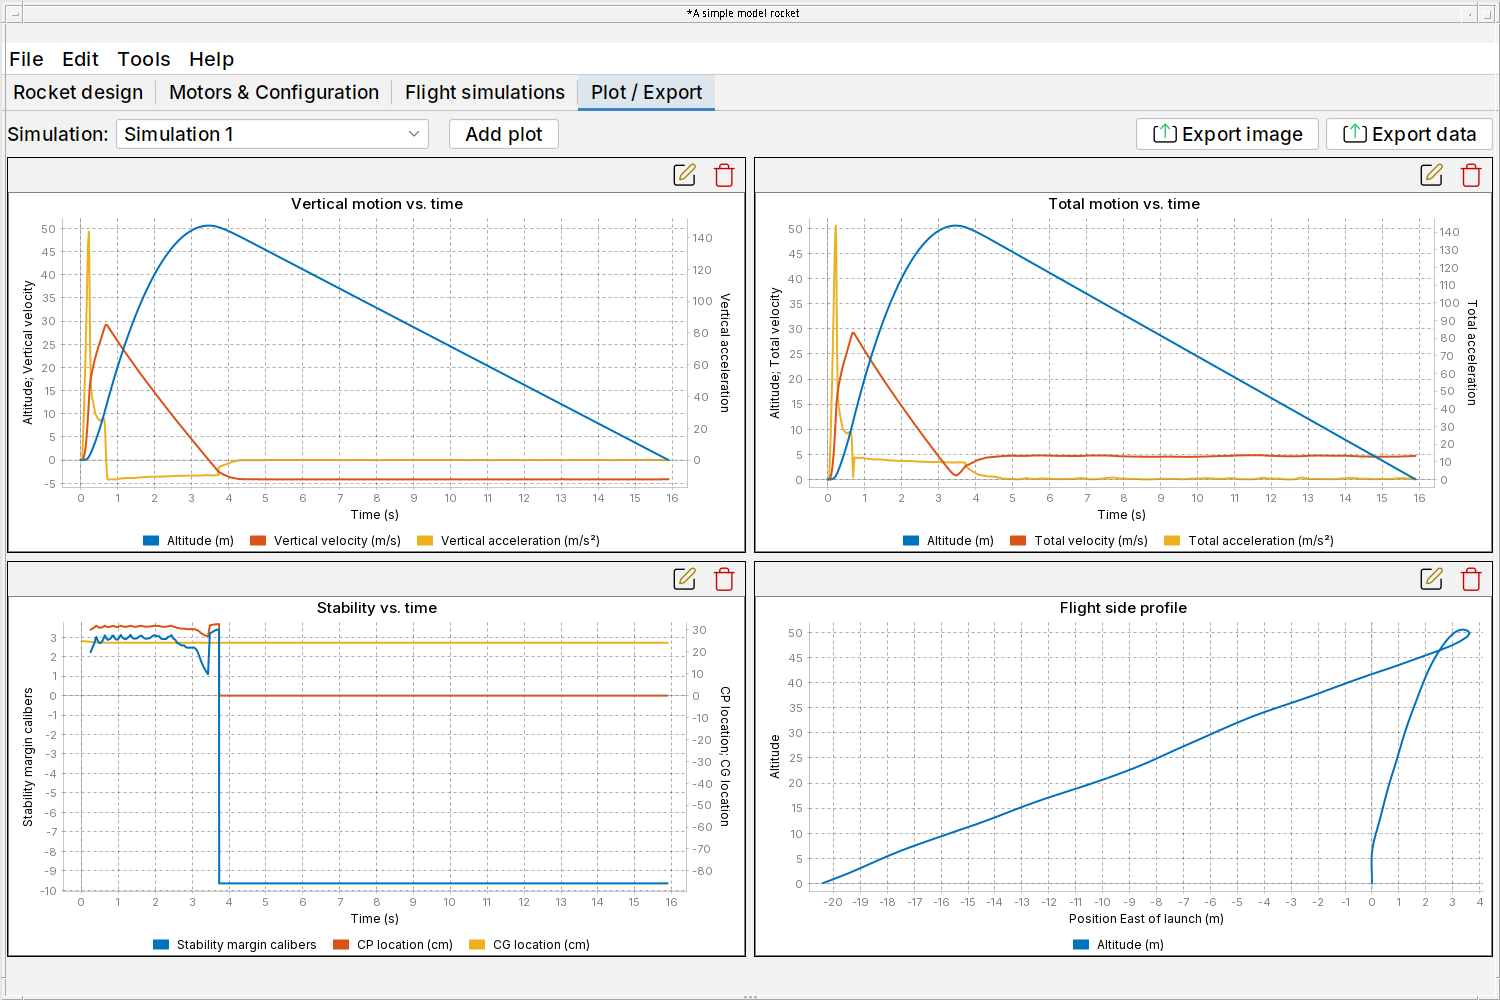
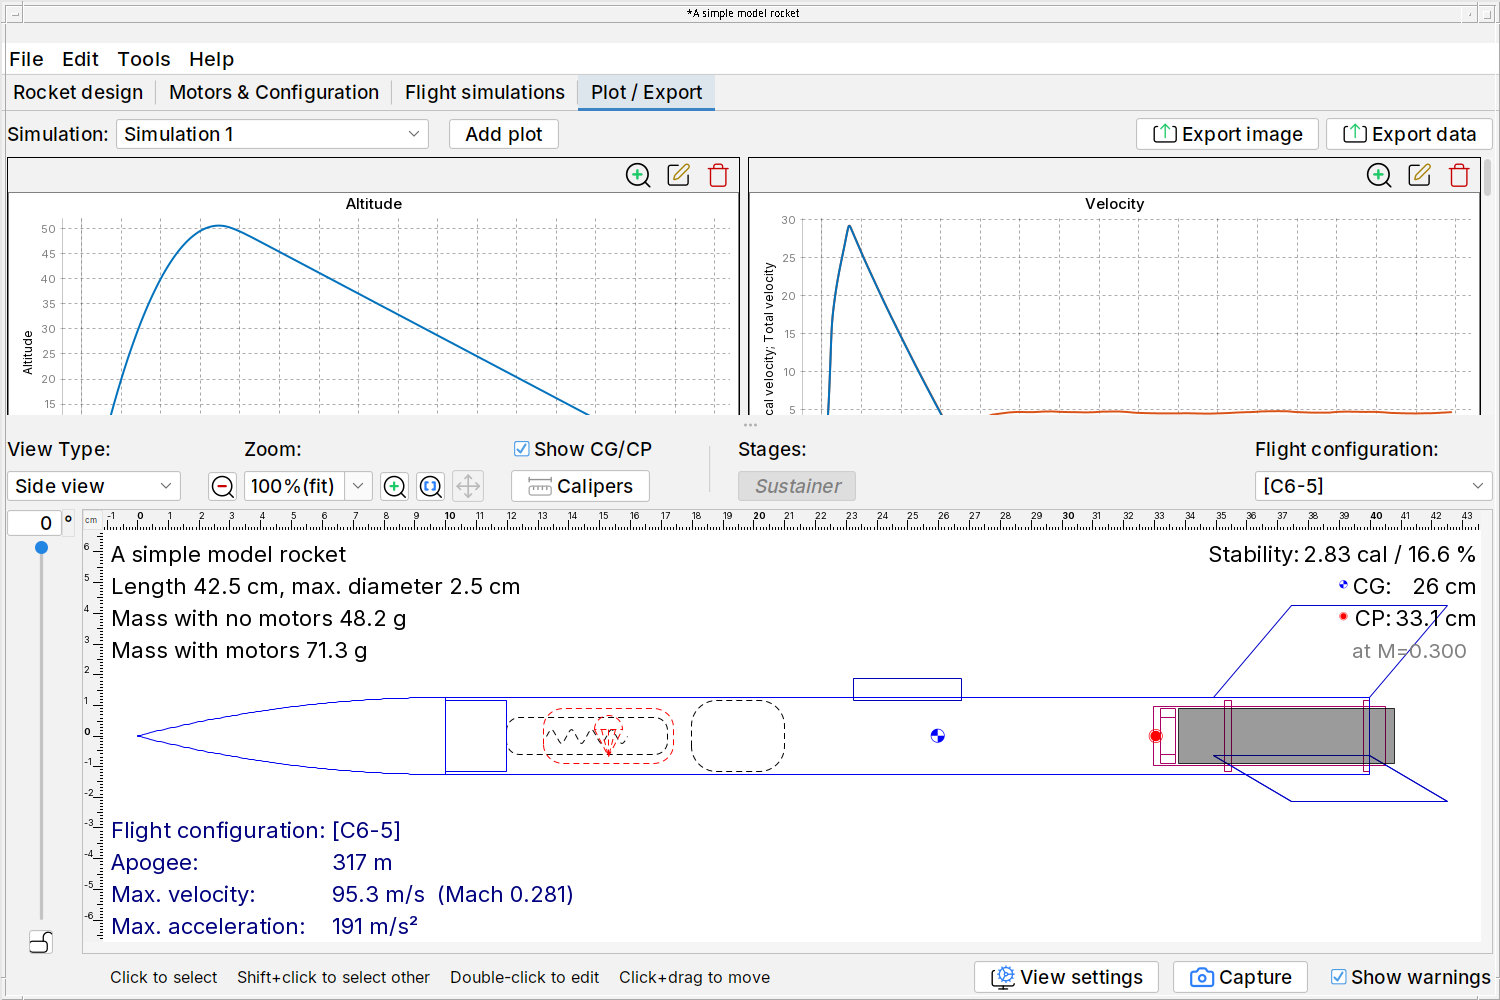
Document the eight plots and maximizing on the Plot / Export tab

diff --git a/docs/source/user_guide/advanced_flight_simulation.rst b/docs/source/user_guide/advanced_flight_simulation.rst
@@ -19,8 +19,10 @@ The Plot / Export tab
 
 The :guilabel:`Plot / Export` tab, next to :guilabel:`Flight simulations`, shows several plots of a simulation on one
 page. Choose the simulation in the :guilabel:`Simulation` list at the top; only simulations that have been run are
-listed. The tab opens with the plots that are used most: the vertical motion, the total motion, the stability and the
-flight side profile.
+listed. The tab opens with the eight plots that are used most: altitude, velocity, acceleration, stability margin,
+thrust and drag, drag coefficient, Mach number, and the flight path (altitude against the distance downrange). Each of
+these plots only shows values with the same unit, so they share one vertical axis. The rocket figure stays below the
+plots; drag the divider to give the plots more room.
 
 .. figure:: /img/user_guide/advanced_flight_simulation/PlotExportTab.png
    :width: 95%
@@ -30,7 +32,9 @@ flight side profile.
 
    The Plot / Export tab.
 
-- :guilabel:`Add plot` adds another plot: one of the preset plots, or a custom plot.
+- :guilabel:`Add plot` adds another plot: one of the eight plots above, one of the preset plots, or a custom plot.
+- The magnifier button at the top of a plot shows only that plot, as large as the tab; click it again to show all
+  plots.
 - The edit button at the top of a plot opens the plot settings (described below in `Plotting data`_), where you can
   change the plotted values, the axes, the units and the colors.
 - The delete button removes the plot.
